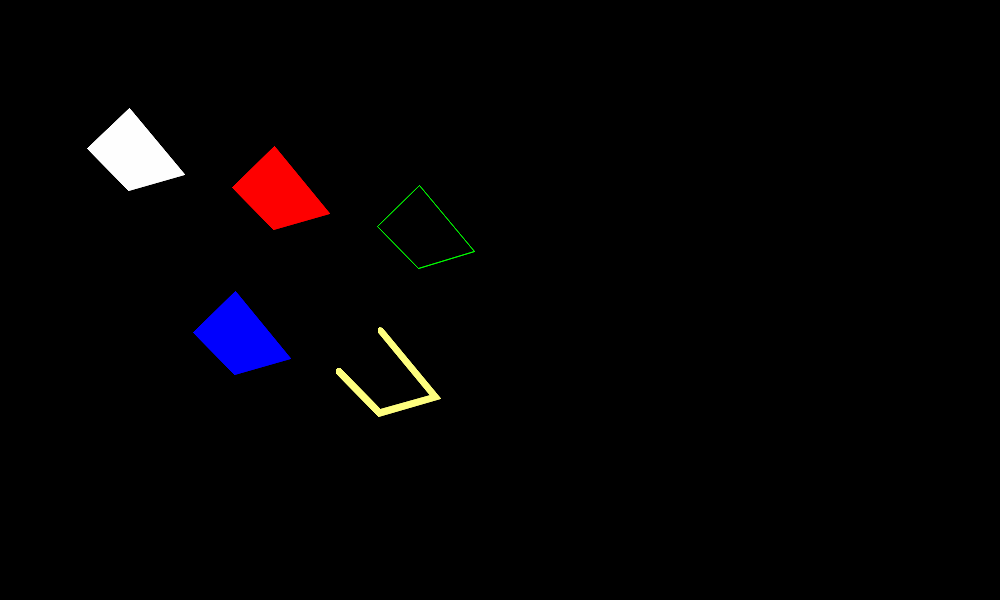
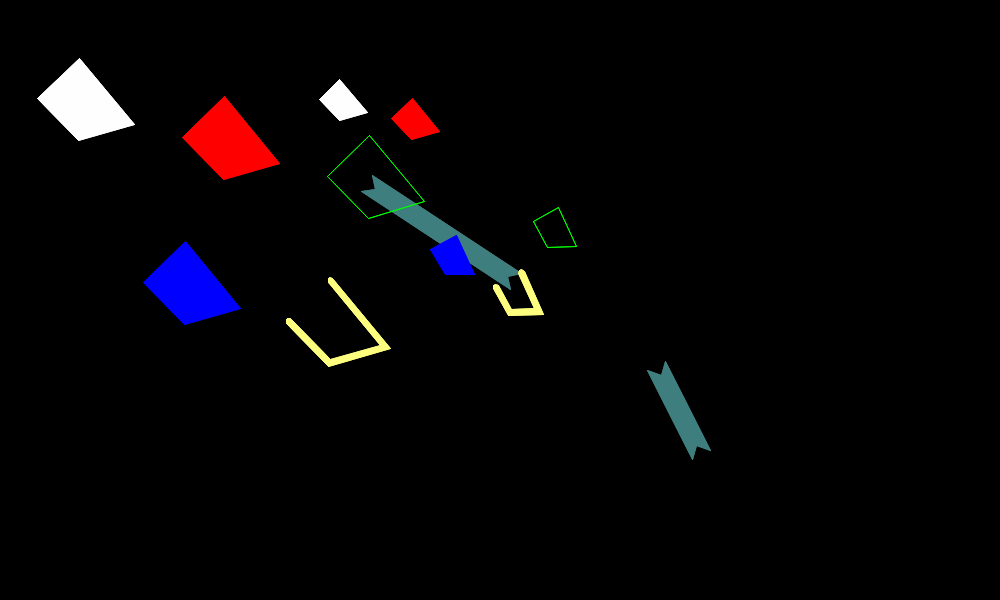
Working on SGNode

diff --git a/src/Pt-Gfx/SGNode.cpp b/src/Pt-Gfx/SGNode.cpp
@@ -1,30 +1,35 @@
-/* Copyright (C) 2006-2015 Laurentiu-Gheorghe Crisan
- * Copyright (C) 2006-2015 Marc Boris Duerner
- * Copyright (C) 2010 Aloysius Indrayanto
- *
- * This library is free software; you can redistribute it and/or
- * modify it under the terms of the GNU Lesser General Public
- * License as published by the Free Software Foundation; either
- * version 2.1 of the License, or (at your option) any later version.
- *
- * As a special exception, you may use this file as part of a free
- * software library without restriction. Specifically, if other files
- * instantiate templates or use macros or inline functions from this
- * file, or you compile this file and link it with other files to
- * produce an executable, this file does not by itself cause the
- * resulting executable to be covered by the GNU General Public
- * License. This exception does not however invalidate any other
- * reasons why the executable file might be covered by the GNU Library
- * General Public License.
- *
- * This library is distributed in the hope that it will be useful,
- * but WITHOUT ANY WARRANTY; without even the implied warranty of
- * MERCHANTABILITY or FITNESS FOR A PARTICULAR PURPOSE.  See the GNU
- * Lesser General Public License for more details.
- *
- * You should have received a copy of the GNU Lesser General Public
- * License along with this library; if not, write to the Free Software
- * Foundation, Inc., 51 Franklin Street, Fifth Floor, Boston, MA  02110-1301  USA*/
+/* Copyright (C) 2006-2015 Marc Boris Duerner
+   Copyright (C) 2017-2017 Aloysius Indrayanto
+
+  This library is free software; you can redistribute it and/or
+  modify it under the terms of the GNU Lesser General Public
+  License as published by the Free Software Foundation; either
+  version 2.1 of the License, or (at your option) any later version.
+
+  As a special exception, you may use this file as part of a free
+  software library without restriction. Specifically, if other files
+  instantiate templates or use macros or inline functions from this
+  file, or you compile this file and link it with other files to
+  produce an executable, this file does not by itself cause the
+  resulting executable to be covered by the GNU General Public
+  License. This exception does not however invalidate any other
+  reasons why the executable file might be covered by the GNU Library
+  General Public License.
+
+  This library is distributed in the hope that it will be useful,
+  but WITHOUT ANY WARRANTY; without even the implied warranty of
+  MERCHANTABILITY or FITNESS FOR A PARTICULAR PURPOSE.  See the GNU
+  Lesser General Public License for more details.
+
+  You should have received a copy of the GNU Lesser General Public
+  License along with this library; if not, write to the Free Software
+  Foundation, Inc., 51 Franklin Street, Fifth Floor, Boston,
+  MA 02110-1301 USA
+*/
+
+// Just for debugging ;)
+#warning "Just for debugging ;)"
+#include <stdio.h>
 
 #include <stdexcept>
 
@@ -128,6 +133,57 @@ void SGNodePath::draw(ImagePainter2& painter, const Transform* transform)
             case RenderStrokeAutoClose : painter.drawPolyline(pointsF.data(), pointsF.size(), true ); break;
             default                    :                                                              break;
         }
+    }
+
+    // End the drawing sequence
+    endDrawSeq(painter);
+}
+
+
+// ======================================================================================
+// ===== SGNodeLine Class ===============================================================
+// ======================================================================================
+SGNodeLine::~SGNodeLine()
+{}
+
+template <typename T>
+static void sgDumpTransformMatrix(const BasicTransform<T>& transform)
+{
+    T r[3][3];
+    transform.getRaw(r);
+
+    printf("    | %7.3f %7.3f %7.3f |\n", r[0][0], r[0][1], r[0][2]);
+    printf("    | %7.3f %7.3f %7.3f |\n", r[1][0], r[1][1], r[1][2]);
+    printf("    | %7.3f %7.3f %7.3f |\n", r[2][0], r[2][1], r[2][2]);
+    printf("\n");
+}
+
+void SGNodeLine::draw(ImagePainter2& painter, const Transform* transform)
+{
+    // Check if this node and all its children must not be drawn
+    if(_rm == RenderNone) return;
+
+    // Begin the drawing sequence
+    const Transform& thisTransform = begDrawSeq(painter, transform);
+
+    // Transform the coordinates
+    PointF f, t;
+
+    thisTransform.transformPoint(f, _from);
+    thisTransform.transformPoint(t, _to  );
+
+    sgDumpTransformMatrix(thisTransform);
+
+
+    // TODO: Transform the pen width too!
+
+    // Draw the line based on the mode
+    const RenderMode rm = renderMode();
+    switch(rm) {
+        case RenderFill            : /* Fallthrough */
+        case RenderStroke          : /* Fallthrough */
+        case RenderStrokeAutoClose : painter.drawLine(f, t); break;
+        default                    :                         break;
     }
 
     // End the drawing sequence

diff --git a/include/Pt/Gfx/SGNode.h b/include/Pt/Gfx/SGNode.h
@@ -51,11 +51,11 @@ class ImagePainter2;
 class PT_GFX_API SGNode {
     public:
         enum RenderMode {
-            RenderInherit,
-            RenderNone,
-            RenderFill,
-            RenderStroke,
-            RenderStrokeAutoClose
+            RenderInherit,         //! @brief Inherit from parent
+            RenderNone,            //! @brief Do not draw this node
+            RenderStroke,          //! @brief Draw this node as an stroked shape
+            RenderStrokeAutoClose, //! @brief Draw this node as an stroked shape with auto-close (only meaningful for some node types)
+            RenderFill             //! @brief Draw this node as a filled shape                   (only meaningful for some node types)
         };
 
         typedef std::vector<SGNode*> Children;
@@ -82,7 +82,7 @@ class PT_GFX_API SGNode {
         virtual ~SGNode() = 0;
 
         //
-        // Management
+        // Management functions
         //
 
         virtual void clear();
@@ -112,7 +112,7 @@ class PT_GFX_API SGNode {
         }
 
         //
-        // Drawing
+        // Drawing functions
         //
 
         inline void setPen(const Pen& pen)
@@ -130,7 +130,7 @@ class PT_GFX_API SGNode {
         virtual void draw(ImagePainter2& painter, const Transform* transform = 0) = 0;
 
         //
-        // Transform
+        // Access to the transform object
         //
 
         inline Transform& transform()
@@ -140,7 +140,7 @@ class PT_GFX_API SGNode {
         { return _transform; }
 
         //
-        // Children access
+        // Access to the child nodes
         //
 
         inline const Children& children() const
@@ -173,7 +173,7 @@ class PT_GFX_API SGNode {
 };
 
 
-/** @brief A scene-graph node class with an embedded Path.
+/** @brief A scene-graph node class that specifies a path.
   */
 class PT_GFX_API SGNodePath : public SGNode {
     public:
@@ -203,13 +203,13 @@ class PT_GFX_API SGNodePath : public SGNode {
         virtual ~SGNodePath();
 
         //
-        // Management
+        // Management functions
         //
 
         virtual void clear();
 
         //
-        // Drawing
+        // Drawing functions
         //
 
         inline void setSmoothness(float smoothness = 1.0f)
@@ -218,7 +218,7 @@ class PT_GFX_API SGNodePath : public SGNode {
         virtual void draw(ImagePainter2& painter, const Transform* transform = 0);
 
         //
-        // Path
+        // Access to the path object
         //
 
         inline Path& path()
@@ -230,6 +230,62 @@ class PT_GFX_API SGNodePath : public SGNode {
     protected:
         Path  _path;
         float _smoothness;
+};
+
+
+/** @brief A scene-graph node class that specifies a line.
+  */
+class PT_GFX_API SGNodeLine : public SGNode {
+    public:
+        inline SGNodeLine(RenderMode rm = RenderInherit)
+        : SGNode( rm )
+        {}
+
+        inline SGNodeLine(RenderMode rm, const PointF& from, const PointF& to)
+        : SGNode( rm )
+        , _from ( from )
+        , _to   ( to )
+        {}
+
+        inline SGNodeLine(RenderMode rm, const PointF& from, const PointF& to, const Transform& transform)
+        : SGNode( rm, transform )
+        , _from ( from )
+        , _to   ( to )
+        {}
+
+        inline SGNodeLine(RenderMode rm, const PointF& from, const PointF& to, const Transform& transform, const Children& children)
+        : SGNode( rm, transform, children )
+        , _from ( from )
+        , _to   ( to )
+        {}
+
+        virtual ~SGNodeLine();
+
+        //
+        // Drawing functions
+        //
+
+        virtual void draw(ImagePainter2& painter, const Transform* transform = 0);
+
+        //
+        // Access to the line object
+        //
+
+        inline void set(const PointF& from, const PointF& to)
+        {
+            _from = from;
+            _to   = to;
+        }
+
+        inline const PointF& from() const
+        { return _from; }
+
+        inline const PointF& to() const
+        { return _to; }
+
+    protected:
+        PointF _from;
+        PointF _to;
 };
 
 

diff --git a/src/Pt-Gfx/tests/ImagePainterTest2_SceneGraph.cpp b/src/Pt-Gfx/tests/ImagePainterTest2_SceneGraph.cpp
@@ -41,12 +41,21 @@ static void testSceneGraph(const char* title, Image& image, Painter& painter)
                 csgn2_3->setPen(Pen(Color::fromRgb8(255, 255, 127), 6, Pen::Solid, Pen::RoundCap, Pen::MiterJoin));
                 csgn2_3->transform().translate(150, 150);
 
-    // Draw it
-    sgn.transform().rotate(-15);
-    sgn.transform().translate(100, 100);
+    // 1st child of the 2nd-child's 1st child
+    SGNodeLine* csgn2_1_1 = &csgn2_1->addChild(new SGNodeLine(SGNode::RenderStroke, PointF(50, 50), PointF(200, 100)));
+                csgn2_1_1->setPen(Pen(Color::fromRgb8(127, 255, 255, 127), 20, Pen::Solid, Pen::TriangularInCap));
 
+    // Draw it
     sgn.setPen  (Color::fromRgb8(255, 255, 255));
     sgn.setBrush(Color::fromRgb8(255, 255, 255));
+
+    sgn.transform().rotate(-15);
+    sgn.transform().translate(50, 50);
+    sgn.draw(*ip2);
+
+    sgn.transform().identity();
+    sgn.transform().scale(0.5f, 0.5f);
+    sgn.transform().translate(300, 50);
     sgn.draw(*ip2);
 
     sdlPreviewRGB888Buffer(title, image.data(), image.width(), image.height(), !!ip2);

diff --git a/src/Pt-Gfx/Path.cpp b/src/Pt-Gfx/Path.cpp
@@ -1024,6 +1024,11 @@ void Path::generatePoints(std::vector<PointF>& dst, float smoothness) const
     //printf("\n");
 }
 
+
+// ======================================================================================
+// ===== Static Public Member Functions =================================================
+// ======================================================================================
+
 void Path::clipPolygon(std::vector<PointF>& result, const std::vector<PointF>& subject, const std::vector<PointF>& clipRegion, ClipMode cm)
 {
     // Scaling factors
